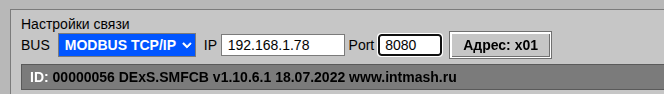
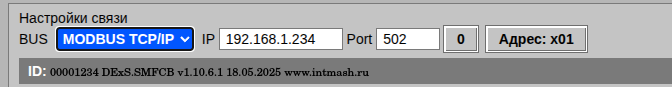
Дополнил Help

diff --git a/public/help/ch03.html b/public/help/ch03.html
@@ -23,55 +23,55 @@
 <col style="width: 50%" />
 </colgroup>
 <thead>
-<tr class="header">
+<tr>
 <th>Кнопка</th>
 <th>Назначение</th>
 </tr>
 </thead>
 <tbody>
-<tr class="odd">
+<tr>
 <td>🔧</td>
 <td>Список устройств: обновление, фильтрация по месту установки, типу и
 т.д.</td>
 </tr>
-<tr class="even">
+<tr>
 <td>🔍</td>
 <td>Поиск устройств в сети Modbus</td>
 </tr>
-<tr class="odd">
+<tr>
 <td>📋</td>
 <td>Создание отчёта по текущей конфигурации</td>
 </tr>
-<tr class="even">
+<tr>
 <td>📈</td>
 <td>Осциллограф: показ/скрытие и меню просмотра .rec-файлов</td>
 </tr>
-<tr class="odd">
+<tr>
 <td><code>&gt;_</code></td>
 <td>Командная строка для ручного обмена с контроллером</td>
 </tr>
-<tr class="even">
+<tr>
 <td>📁</td>
 <td>Открытие INI-файла или папки с ini файлами (только в Linux)</td>
 </tr>
-<tr class="odd">
+<tr>
 <td><strong>Подключиться</strong></td>
 <td>Установить соединение с контроллером, прочитать идентификационную
 строку устройства и искать среди загруженных ini файлов “родной” ini
 файл - с идентичным номером</td>
 </tr>
-<tr class="even">
+<tr>
 <td><strong>ID</strong></td>
 <td>Установить соединение с контроллером и прочитать идентификационную
 строку устройства</td>
 </tr>
-<tr class="odd">
+<tr>
 <td><span
 style="color: red; font-size: 24px; font-weight: bold;">?</span></td>
 <td>Поиск нужного ini файла по месту установки в раскрывающихся списках
 слева в таблице или поиск параметра по его номеру или имени</td>
 </tr>
-<tr class="even">
+<tr>
 <td><img src="images/icon-help.png" height="24"></td>
 <td>Открыть руководство пользователя / О программе</td>
 </tr>
@@ -92,9 +92,9 @@ alt="Рис. 2. Панель настроек связи Modbus RTU" />
 RTU</figcaption>
 </figure>
 <h3 id="режим-modbus-tcpip">Режим MODBUS TCP/IP</h3>
-<p>Отображаются поля: <strong>IP</strong> — адрес хоста,
-<strong>Port</strong> — TCP-порт (по умолчанию 8080) и кнопка
-<strong>Адрес</strong>.</p>
+<p>Отображаются поля: <strong>IP</strong> — адрес сетевой карты,
+<strong>Port</strong> — TCP-порт (по умолчанию 502) и кнопка
+<strong>Подключиться/Отключиться</strong>.</p>
 <figure>
 <img src="images/Nastroiki_cvjasi_TCP.png"
 alt="Рис. 3. Панель настроек связи Modbus TCP/IP" />
@@ -108,9 +108,6 @@ TCP/IP</figcaption>
 Сокращённая версия (серийный номер и тип) выводится в шапке
 осциллографа.</p>
 <h2 id="подготовка-к-подключению">3.3. Подготовка к подключению</h2>
-<p>При первичном запуске Ajuster нужно выбрать базовую папку в файловой
-системе с необходимым контентом ( папки с *.ini файлами, папка
-Records…)</p>
 <ul>
 <li>Подключите контроллер к компьютеру ( USB, RS-485 или Ethernet ).
 Выберите нужный порт в списке <strong>COM</strong> (режим RTU) либо
@@ -124,18 +121,22 @@ Records…)</p>
 <em>.ini файлов, или папку с </em>.ini файлами ( в Linux ).</li>
 </ul>
 <h2 id="установка-соединения">3.4. Установка соединения</h2>
-<p>Кликните кнопку <strong>Подключиться</strong>. Программа:</p>
+<p>При работе на шине RTU кликните кнопку <strong>ID</strong>.
+Программа:</p>
 <ol type="1">
 <li>Предложит выбрать com порт из доступных в системе</li>
 <li>Откроет порт и пошлёт запрос идентификации. Номер порта не
 отображается в целях безопасности. Только имя преобразователя
 USB-to-UART</li>
 <li>Считает строку ID и выведет её в поле «ID».</li>
-<li>Найдёт среди загруженных ini-файлов «родную» конфигурацию по
-серийному номеру и типу устройства.</li>
 </ol>
-<p>Если родной ini найден — он автоматически выбирается в списке
-устройств. Если не найден — открывается окно «Новое устройство».</p>
+<p>При работе на шине TCP/IP :</p>
+<ol type="1">
+<li>Запишите нужный IP адрес и порт</li>
+<li>Кликните кнопку <strong>Подключиться</strong>, кнопка изменит “0” на
+“1” - контроллер подключен.</li>
+<li>Далее работа аналогична работе на шине RTU.</li>
+</ol>
 <h2 id="потеря-связи">3.5. Потеря связи</h2>
 <p>Если контроллер перестал отвечать, программа показывает сообщение
 «Контроллер не отвечает», а осциллограф замораживает графики. После

diff --git a/help-src/ch03.md b/help-src/ch03.md
@@ -29,7 +29,7 @@
 
 ### Режим MODBUS TCP/IP
 
-Отображаются поля: **IP** — адрес хоста, **Port** — TCP-порт (по умолчанию 8080) и кнопка **Адрес**.
+Отображаются поля: **IP** — адрес сетевой карты, **Port** — TCP-порт (по умолчанию 502) и кнопка **Подключиться/Отключиться**.
 
 ![Рис. 3. Панель настроек связи Modbus TCP/IP](images/Nastroiki_cvjasi_TCP.png)
 
@@ -39,8 +39,6 @@
 
 ## 3.3. Подготовка к подключению
 
-При первичном запуске Ajuster нужно выбрать базовую папку в файловой системе с необходимым контентом ( папки с *.ini  файлами, папка Records...)
-
  *  Подключите контроллер к компьютеру  ( USB, RS-485 или Ethernet ). Выберите нужный порт в списке **COM** (режим RTU) либо укажите **IP** и **Port** (режим TCP/IP).
 
 При необходимости задайте скорость в списке **BPS** и адрес устройства кнопкой **Адрес**.
@@ -49,15 +47,19 @@
 
 ## 3.4. Установка соединения
 
-Кликните кнопку **Подключиться**. Программа:
+При работе на шине  RTU кликните кнопку **ID**. Программа:
 
 1. Предложит выбрать com  порт из доступных в системе
 2. Откроет порт и пошлёт запрос идентификации.
    Номер порта не отображается в целях безопасности. Только имя преобразователя USB-to-UART
 3. Считает строку ID и выведет её в поле «ID».
-4. Найдёт среди загруженных ini-файлов «родную» конфигурацию по серийному номеру и типу устройства.
 
-Если родной ini найден — он автоматически выбирается в списке устройств. Если не найден — открывается окно «Новое устройство».
+При работе на шине  TCP/IP :
+
+1. Запишите нужный IP адрес  и порт 
+2. Кликните кнопку **Подключиться**, кнопка изменит "0" на "1" - контроллер подключен.
+3. Далее работа аналогична работе на шине RTU.
+
 
 ## 3.5. Потеря связи
 
